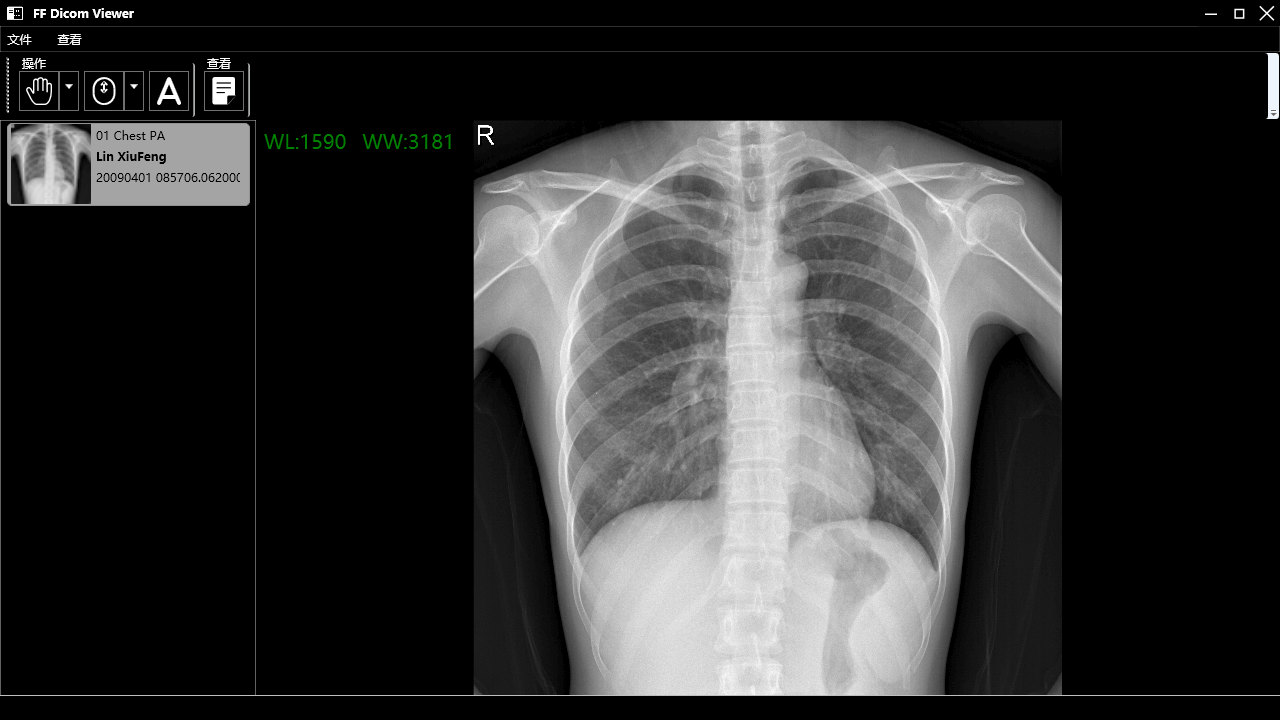
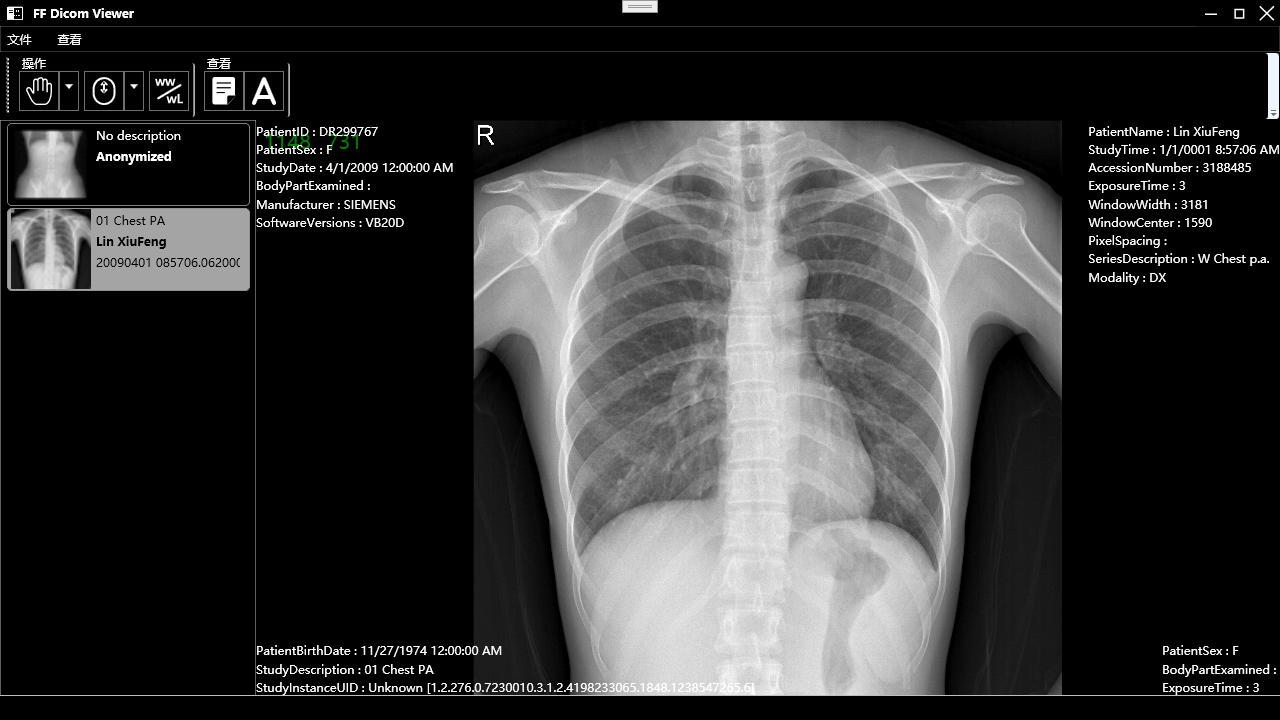
update README.md

diff --git a/README.md b/README.md
@@ -29,14 +29,27 @@ Medical image display control,support dicom/raw image.
 
 <p align="center">
 <img src="ImageViewer/Screenshots/1.png">
+<p align="center">single image</p>
 </p>
 
 <p align="center">
 <img src="ImageViewer/Screenshots/2.png">
+<p align="center">multi series</p>
 </p>
 
 <p align="center">
 <img src="ImageViewer/Screenshots/3.png">
+<p align="center">dicom tags</p>
+</p>
+
+<p align="center">
+<img src="ImageViewer/Screenshots/4.png">
+<p align="center">annotation config</p>
+</p>
+
+<p align="center">
+<img src="ImageViewer/Screenshots/5.png">
+<p align="center">open raw</p>
 </p>
 
 # Features
@@ -45,7 +58,6 @@ Medical image display control,support dicom/raw image.
 * Zoom Out/In
 
 ## Roadmap
-
 * SetWindow
 * Text tool
 * Annotation
